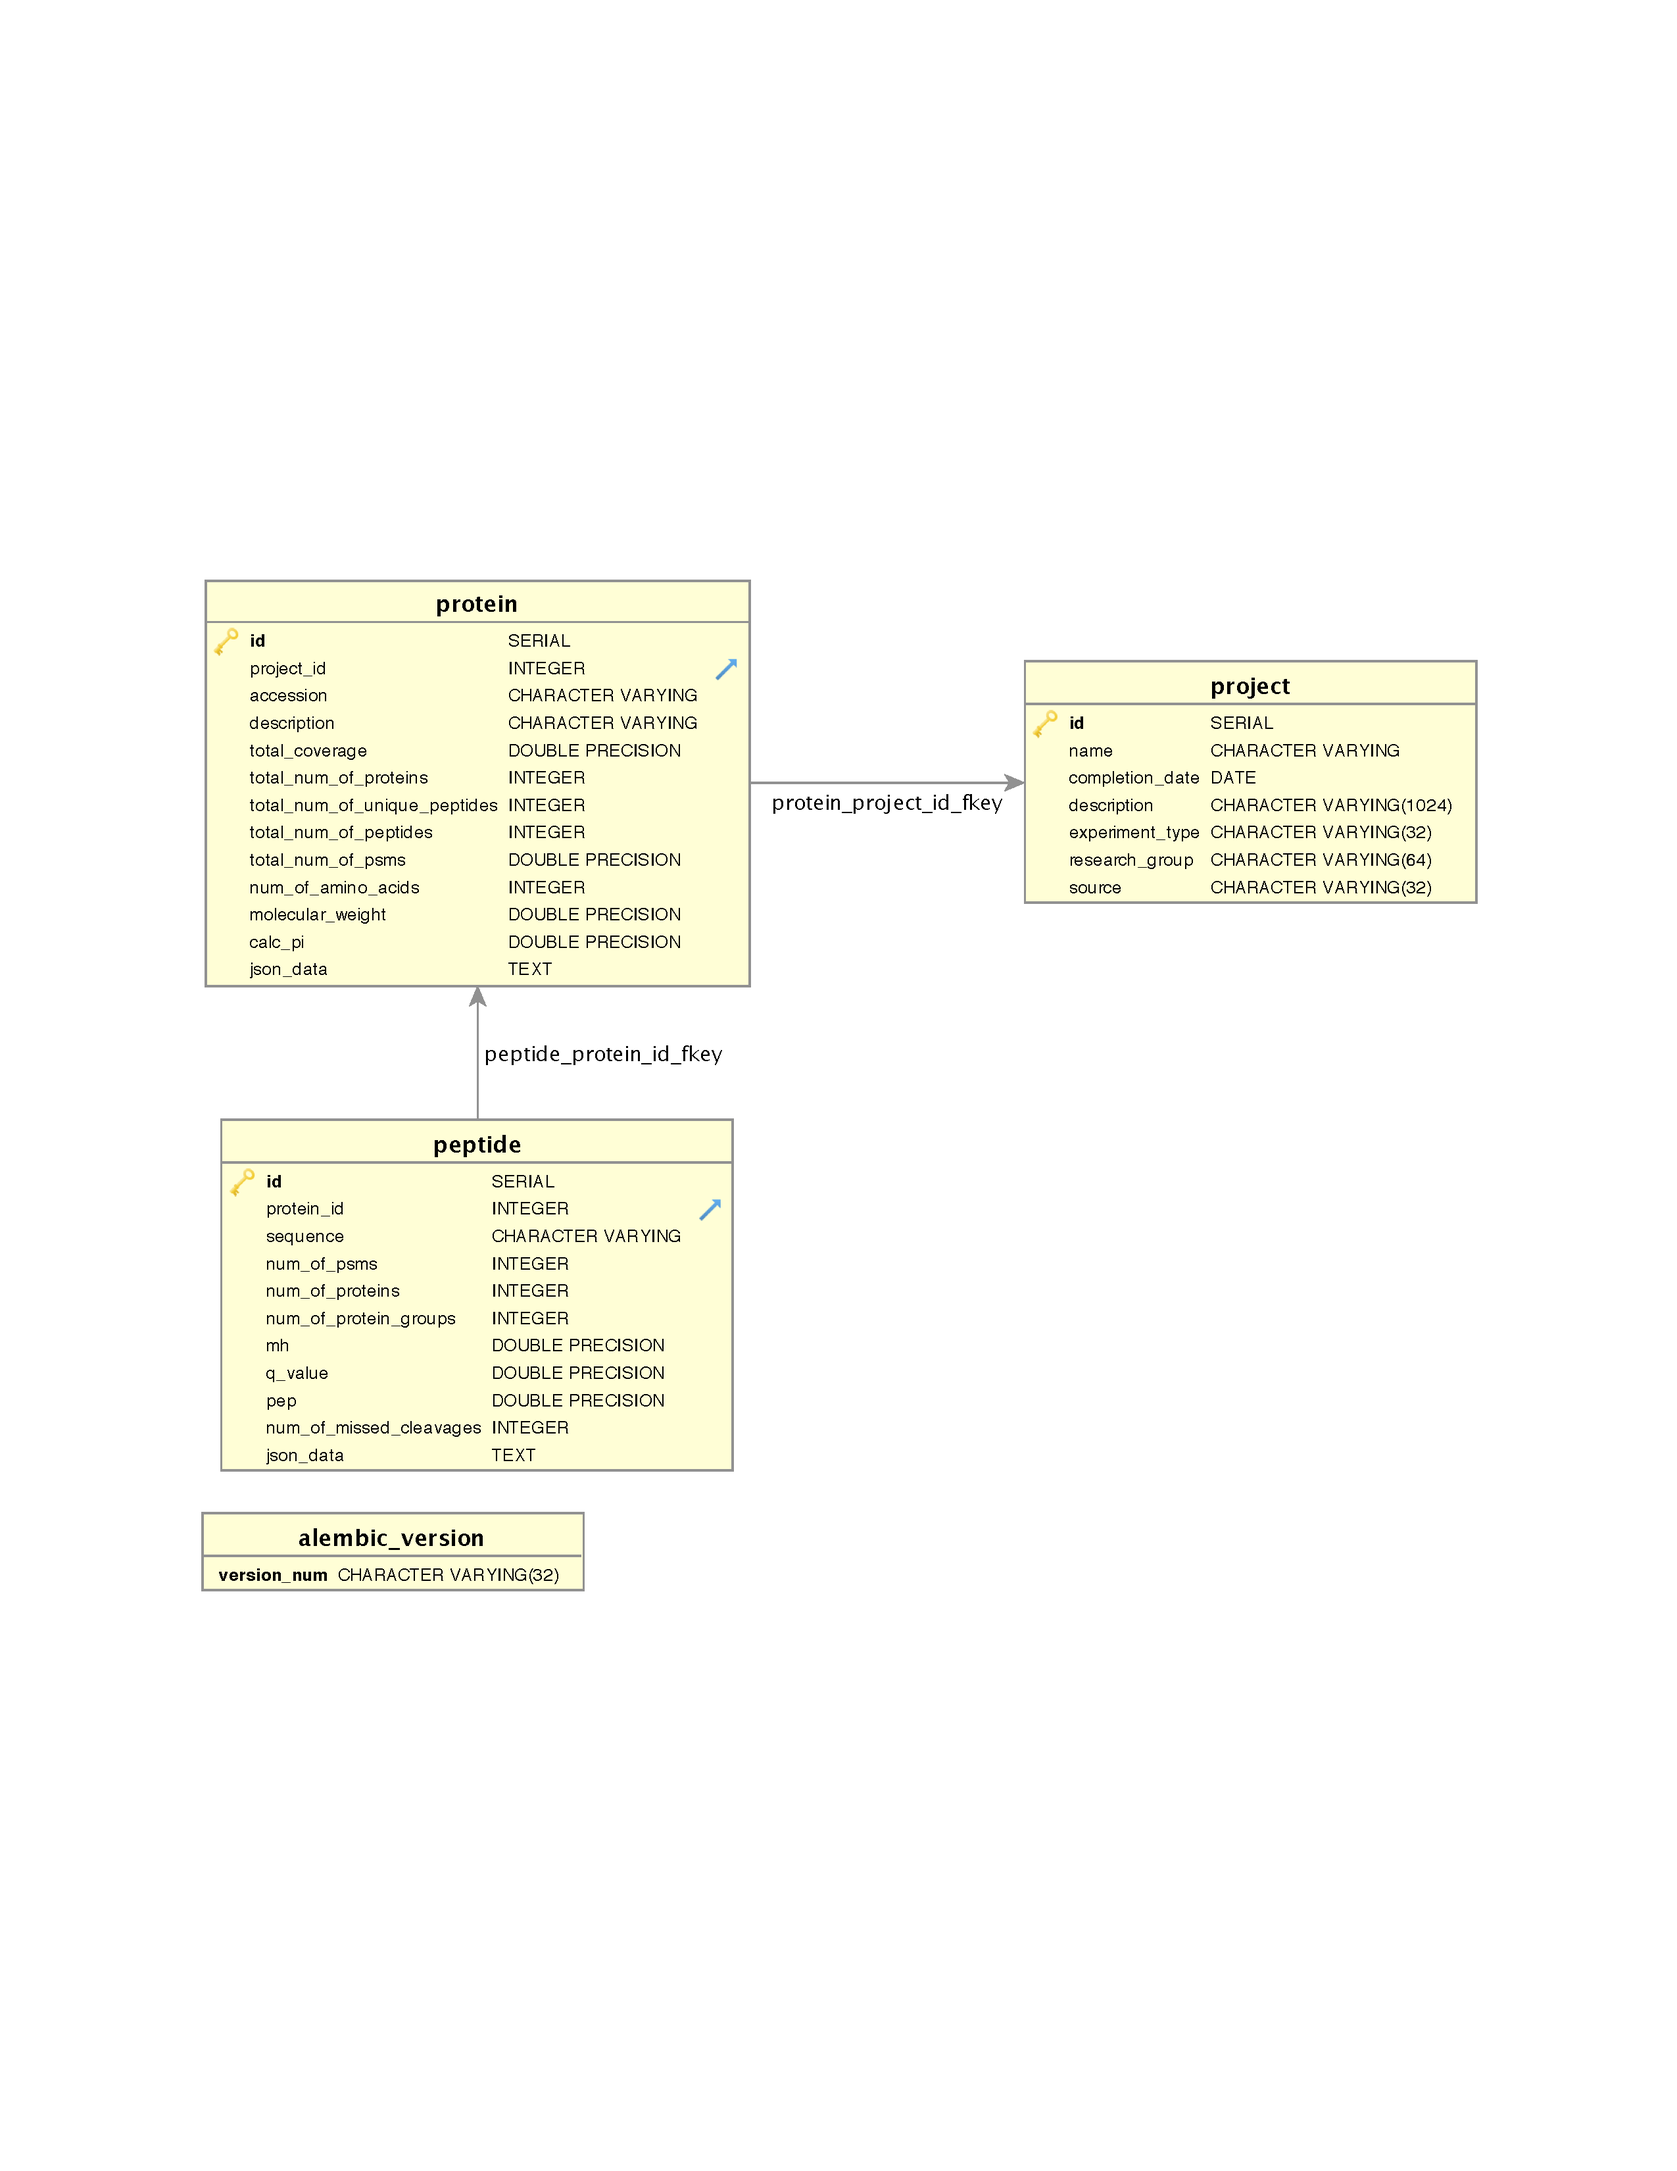
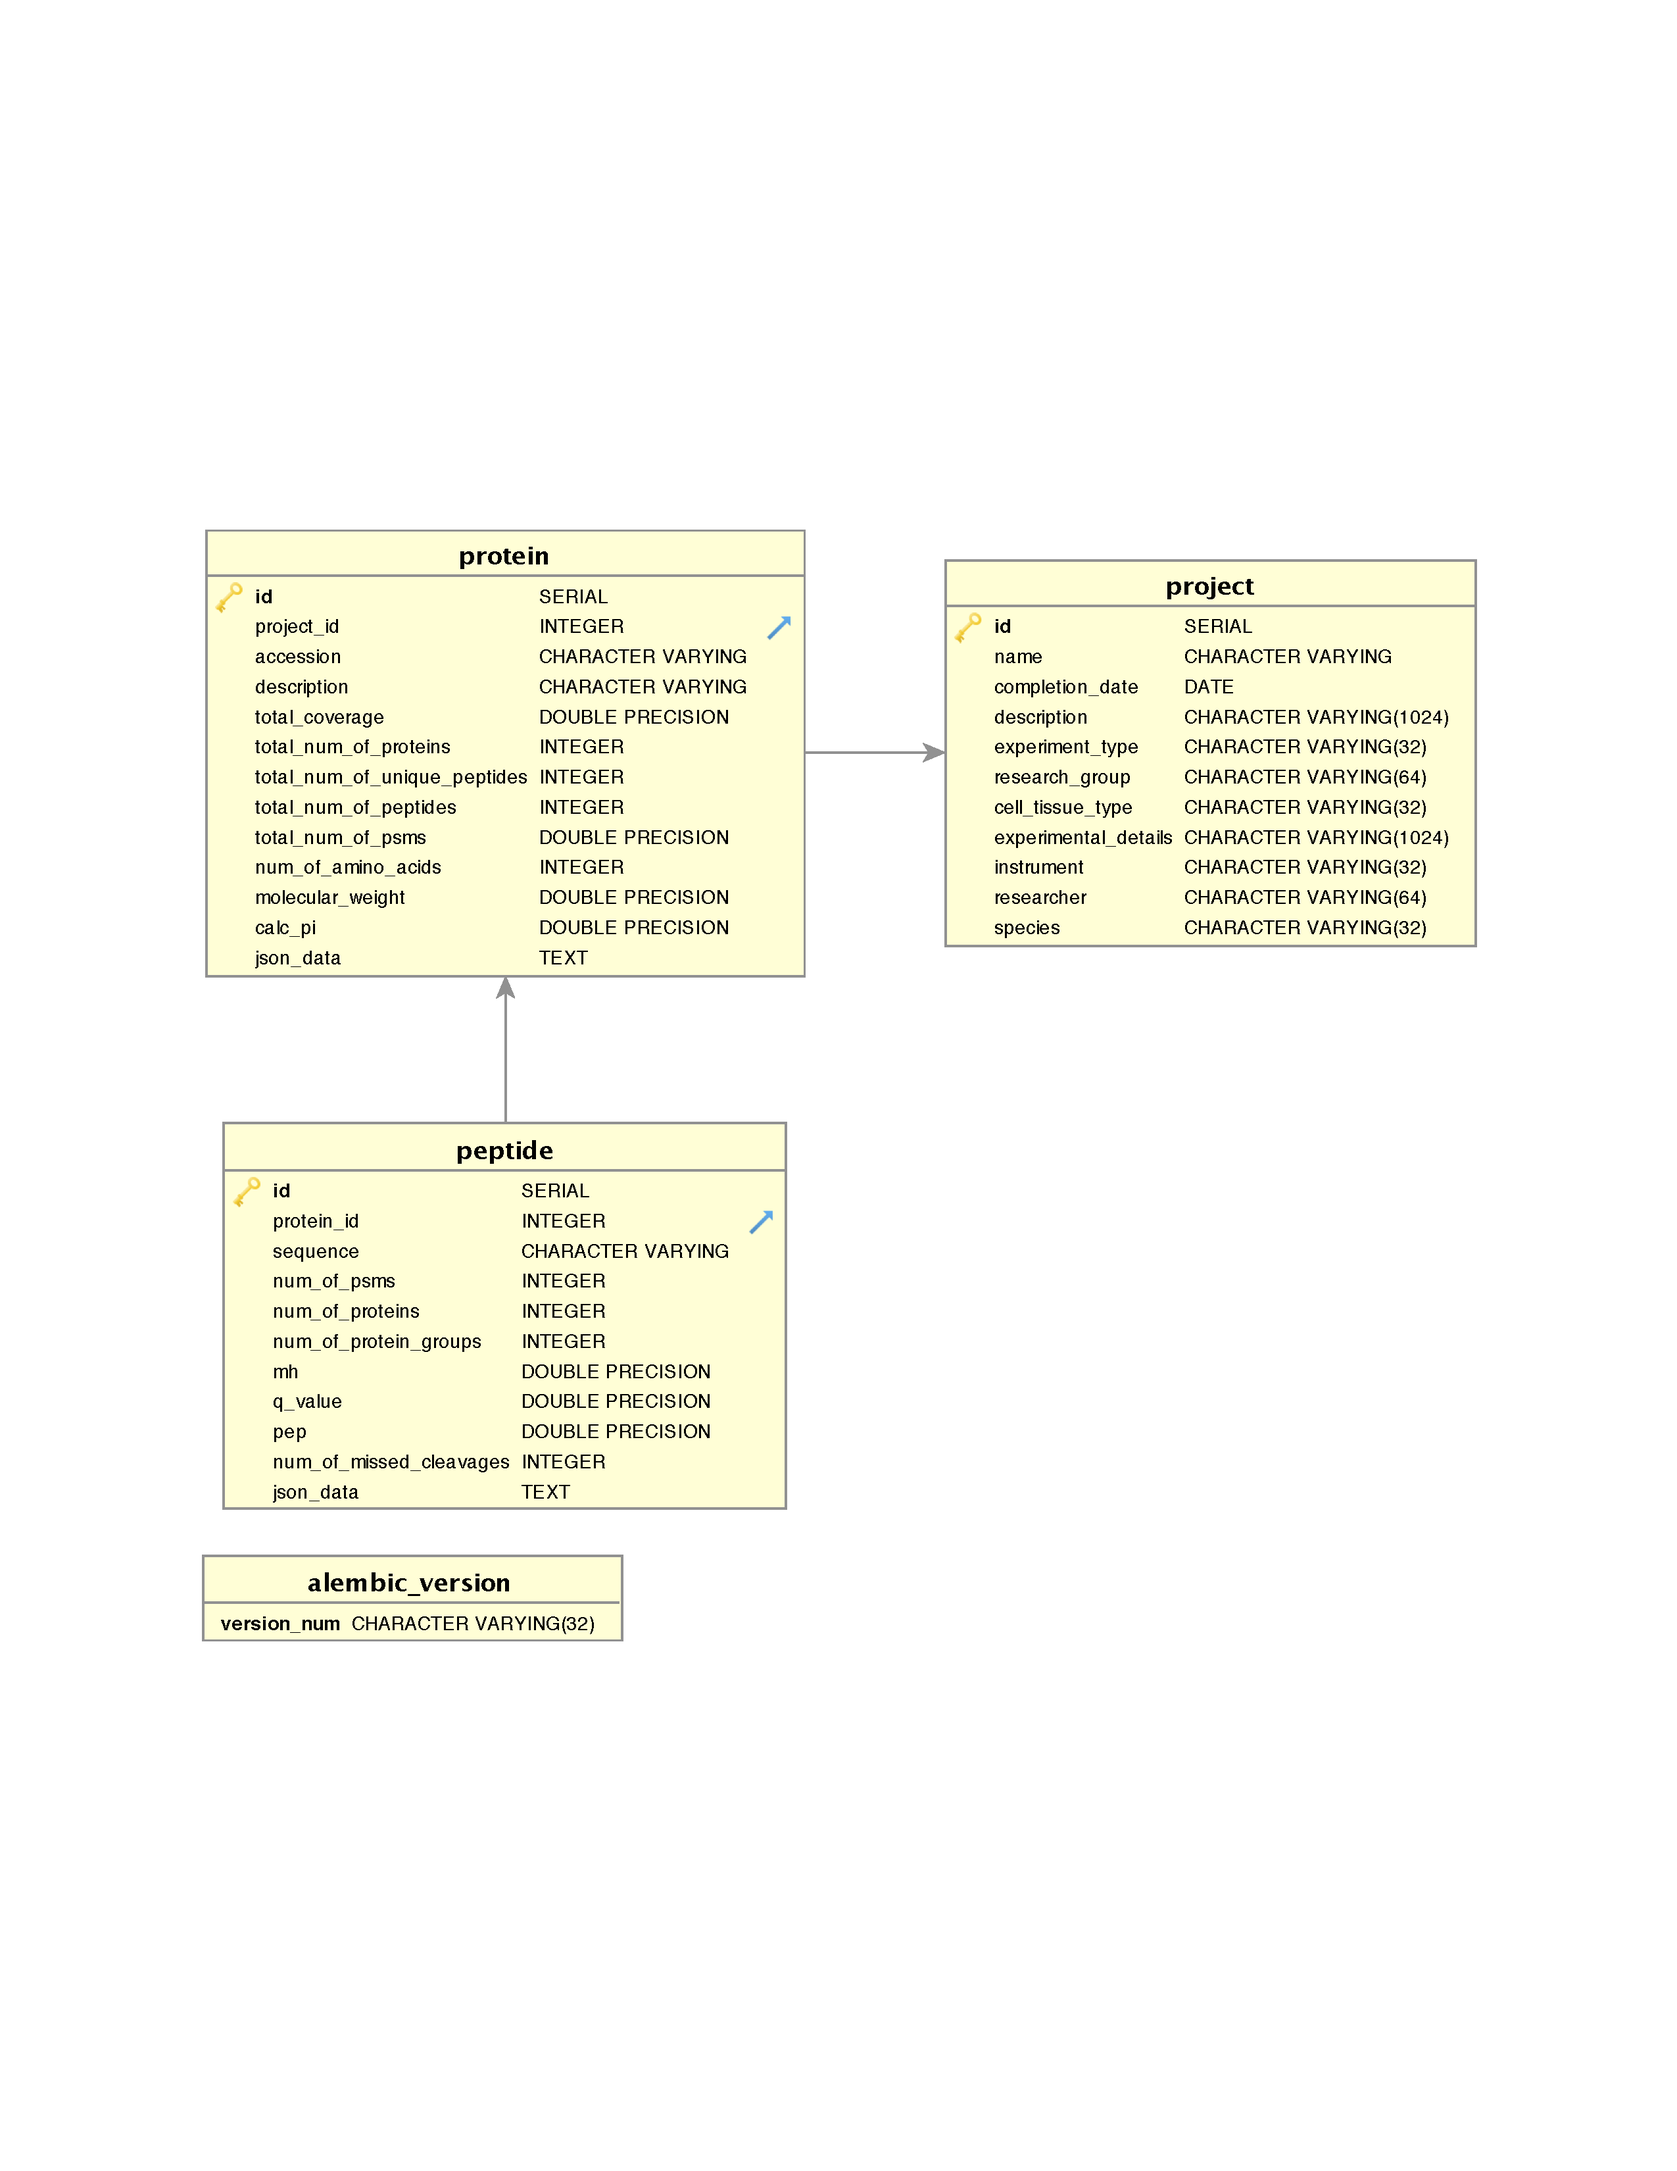
update project columns and add new ones

Changed region(s): [[0.1239, 0.2185, 0.8984, 0.7803]]

diff --git a/alembic/versions/d31b0fd1533a_update_project_columns.py b/alembic/versions/d31b0fd1533a_update_project_columns.py
@@ -1,0 +1,38 @@
+"""update project columns
+
+Revision ID: d31b0fd1533a
+Revises: 58d661e1c431
+Create Date: 2017-07-25 12:12:14.141011
+
+"""
+
+# revision identifiers, used by Alembic.
+revision = 'd31b0fd1533a'
+down_revision = '58d661e1c431'
+branch_labels = None
+depends_on = None
+
+from alembic import op
+import sqlalchemy as sa
+
+
+def upgrade():
+    # ### commands auto generated by Alembic - please adjust! ###
+    op.add_column('project', sa.Column('cell_tissue_type', sa.String(length=32), nullable=True))
+    op.add_column('project', sa.Column('experimental_details', sa.String(length=1024), nullable=True))
+    op.add_column('project', sa.Column('instrument', sa.String(length=32), nullable=True))
+    op.add_column('project', sa.Column('researcher', sa.String(length=64), nullable=True))
+    op.add_column('project', sa.Column('species', sa.String(length=32), nullable=True))
+    op.drop_column('project', 'source')
+    # ### end Alembic commands ###
+
+
+def downgrade():
+    # ### commands auto generated by Alembic - please adjust! ###
+    op.add_column('project', sa.Column('source', sa.VARCHAR(length=32), autoincrement=False, nullable=True))
+    op.drop_column('project', 'species')
+    op.drop_column('project', 'researcher')
+    op.drop_column('project', 'instrument')
+    op.drop_column('project', 'experimental_details')
+    op.drop_column('project', 'cell_tissue_type')
+    # ### end Alembic commands ###

diff --git a/proteomicsdb/model.py b/proteomicsdb/model.py
@@ -16,12 +16,16 @@ class Project(Base):
     __tablename__ = 'project'
     id = Column(Integer, primary_key=True)
     name = Column(String, unique=True)
-    experiment_type = Column(String(32))
-    source = Column(String(32))
-    research_group = Column(String(64))
     completion_date = Column(Date)
     description = Column(String(1024))
-
+    experiment_type = Column(String(32))
+    researcher = Column(String(64))
+    research_group = Column(String(64))
+    cell_tissue_type = Column(String(32))
+    species = Column(String(32))
+    instrument = Column(String(32))
+    experimental_details = Column(String(1024))
+    
 
 class Protein(Base):
     __tablename__ = 'protein'

diff --git a/README.md b/README.md
@@ -29,7 +29,7 @@ cd proteomics
 ```
 virtualenv venv
 source venv/bin/activate
-pip install -r requirememts.txt
+pip install -r requirements.txt
 ```
 
 ## Create the database (only once)
